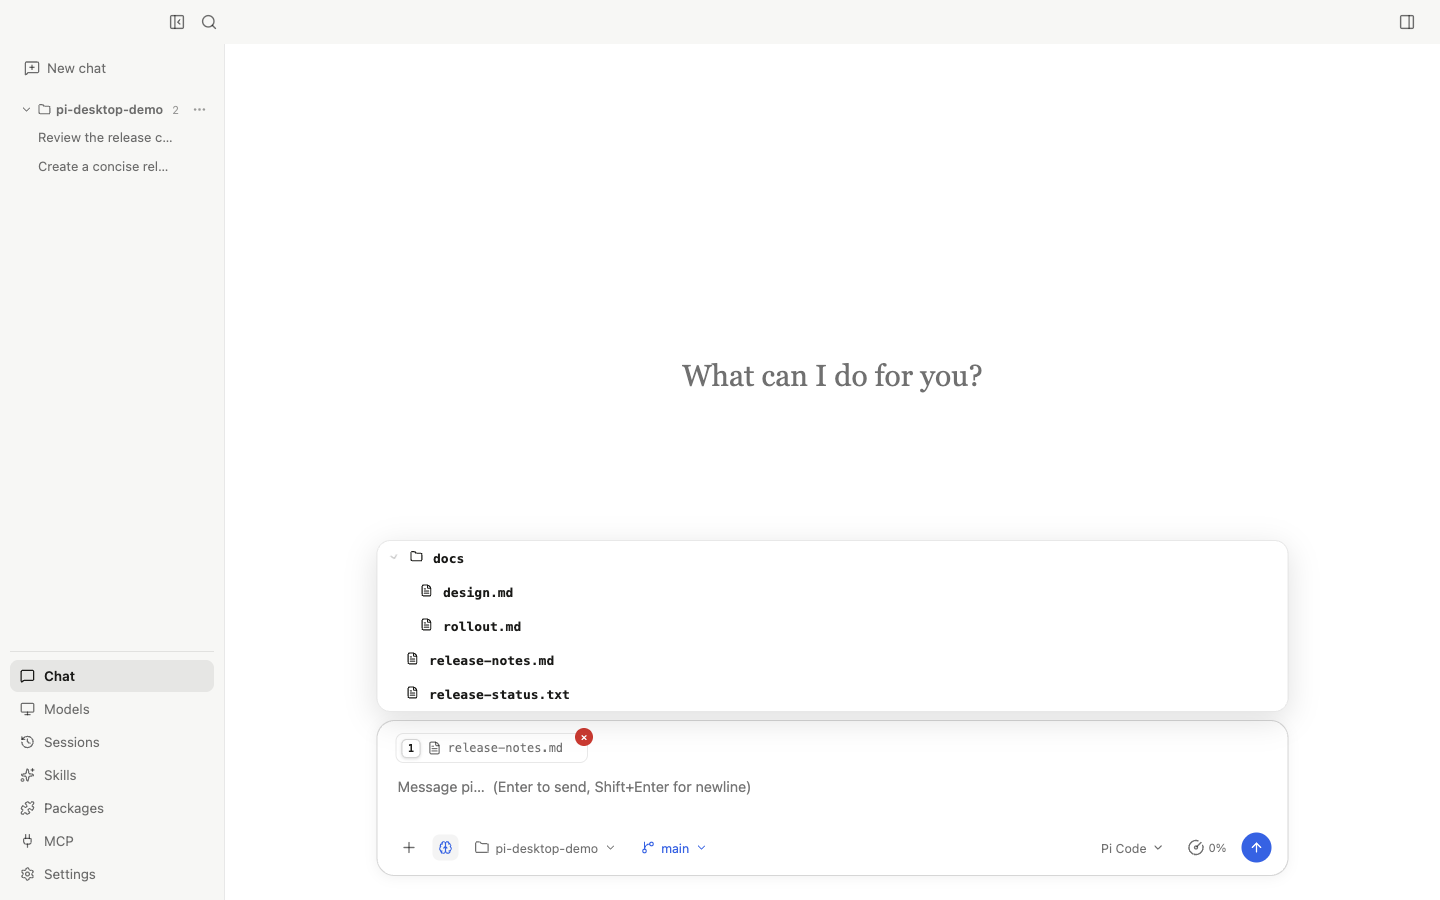
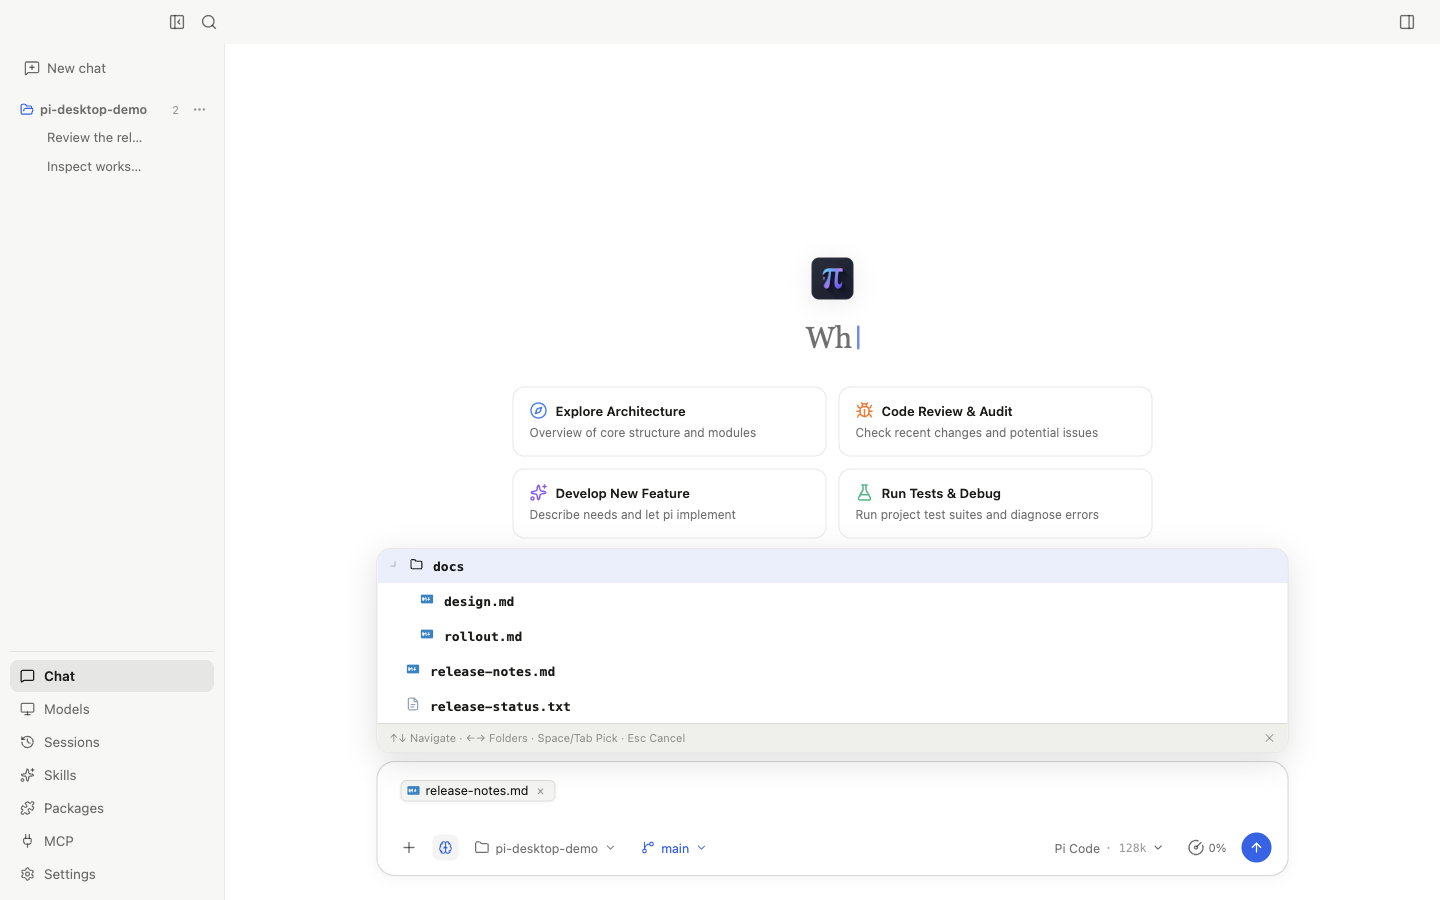
docs(readme): refresh tour screenshots and document session branch tree
Update all product tour screenshots in resources/screenshots/ to reflect the current UI, including the message navigation rail, folded historical turns, inline file chips, and turn change summary cards. Add the new session branch tree screenshot (fork-tree.png) and reference it in both the Chinese and English READMEs under session management.

Also update the automated capture script and mock provider fixture to support multi-turn captures and reliable file mention assertions.

diff --git a/README.md b/README.md
@@ -110,7 +110,9 @@ Plan mode、Skills、工作区与 git 分支切换、模型选择都固定在常
 
 ![Pi Desktop 会话管理](./resources/screenshots/sessions.png)
 
-会话不是一次性的聊天标签。你可以随时继续旧工作、归档已完成的任务，或者导出一份包含完整样式的高保真独立 HTML 记录。在对话任意节点点击 Fork 后，通过内置的「会话分支树」弹窗，可以清晰审视整个会话派生的完整拓扑脉络与分叉深度，并在不同实现思路间自由穿梭。
+会话不是一次性的聊天标签。你可以随时继续旧工作、归档已完成的任务，或者导出一份包含完整样式的高保真独立 HTML 记录。在对话任意节点点击 Fork 后，通过内置的「会话分支树」弹窗，可以清晰审视整个会话派生的完整拓扑脉络与分叉深度，并在不同实现思路间自由穿梭：
+
+![Pi Desktop 会话分支树](./resources/screenshots/fork-tree.png)
 
 ### 用分栏与多窗口并行推进
 

diff --git a/README.en.md b/README.en.md
@@ -120,7 +120,9 @@ Switch models mid-session from the composer picker, which groups providers and s
 
 ![Pi Desktop session management](./resources/screenshots/sessions.png)
 
-Sessions are not disposable chat tabs. Continue earlier work, archive completed tasks, or export self-contained, high-fidelity HTML records. When forking from any message node, the interactive Session Branch Tree displays the full topological lineage and fork depth, letting you traverse and experiment with alternative implementations effortlessly.
+Sessions are not disposable chat tabs. Continue earlier work, archive completed tasks, or export self-contained, high-fidelity HTML records. When forking from any message node, the interactive Session Branch Tree displays the full topological lineage and fork depth, letting you traverse and experiment with alternative implementations effortlessly:
+
+![Pi Desktop session branch tree](./resources/screenshots/fork-tree.png)
 
 ### Multitask with split panes and separate windows
 
